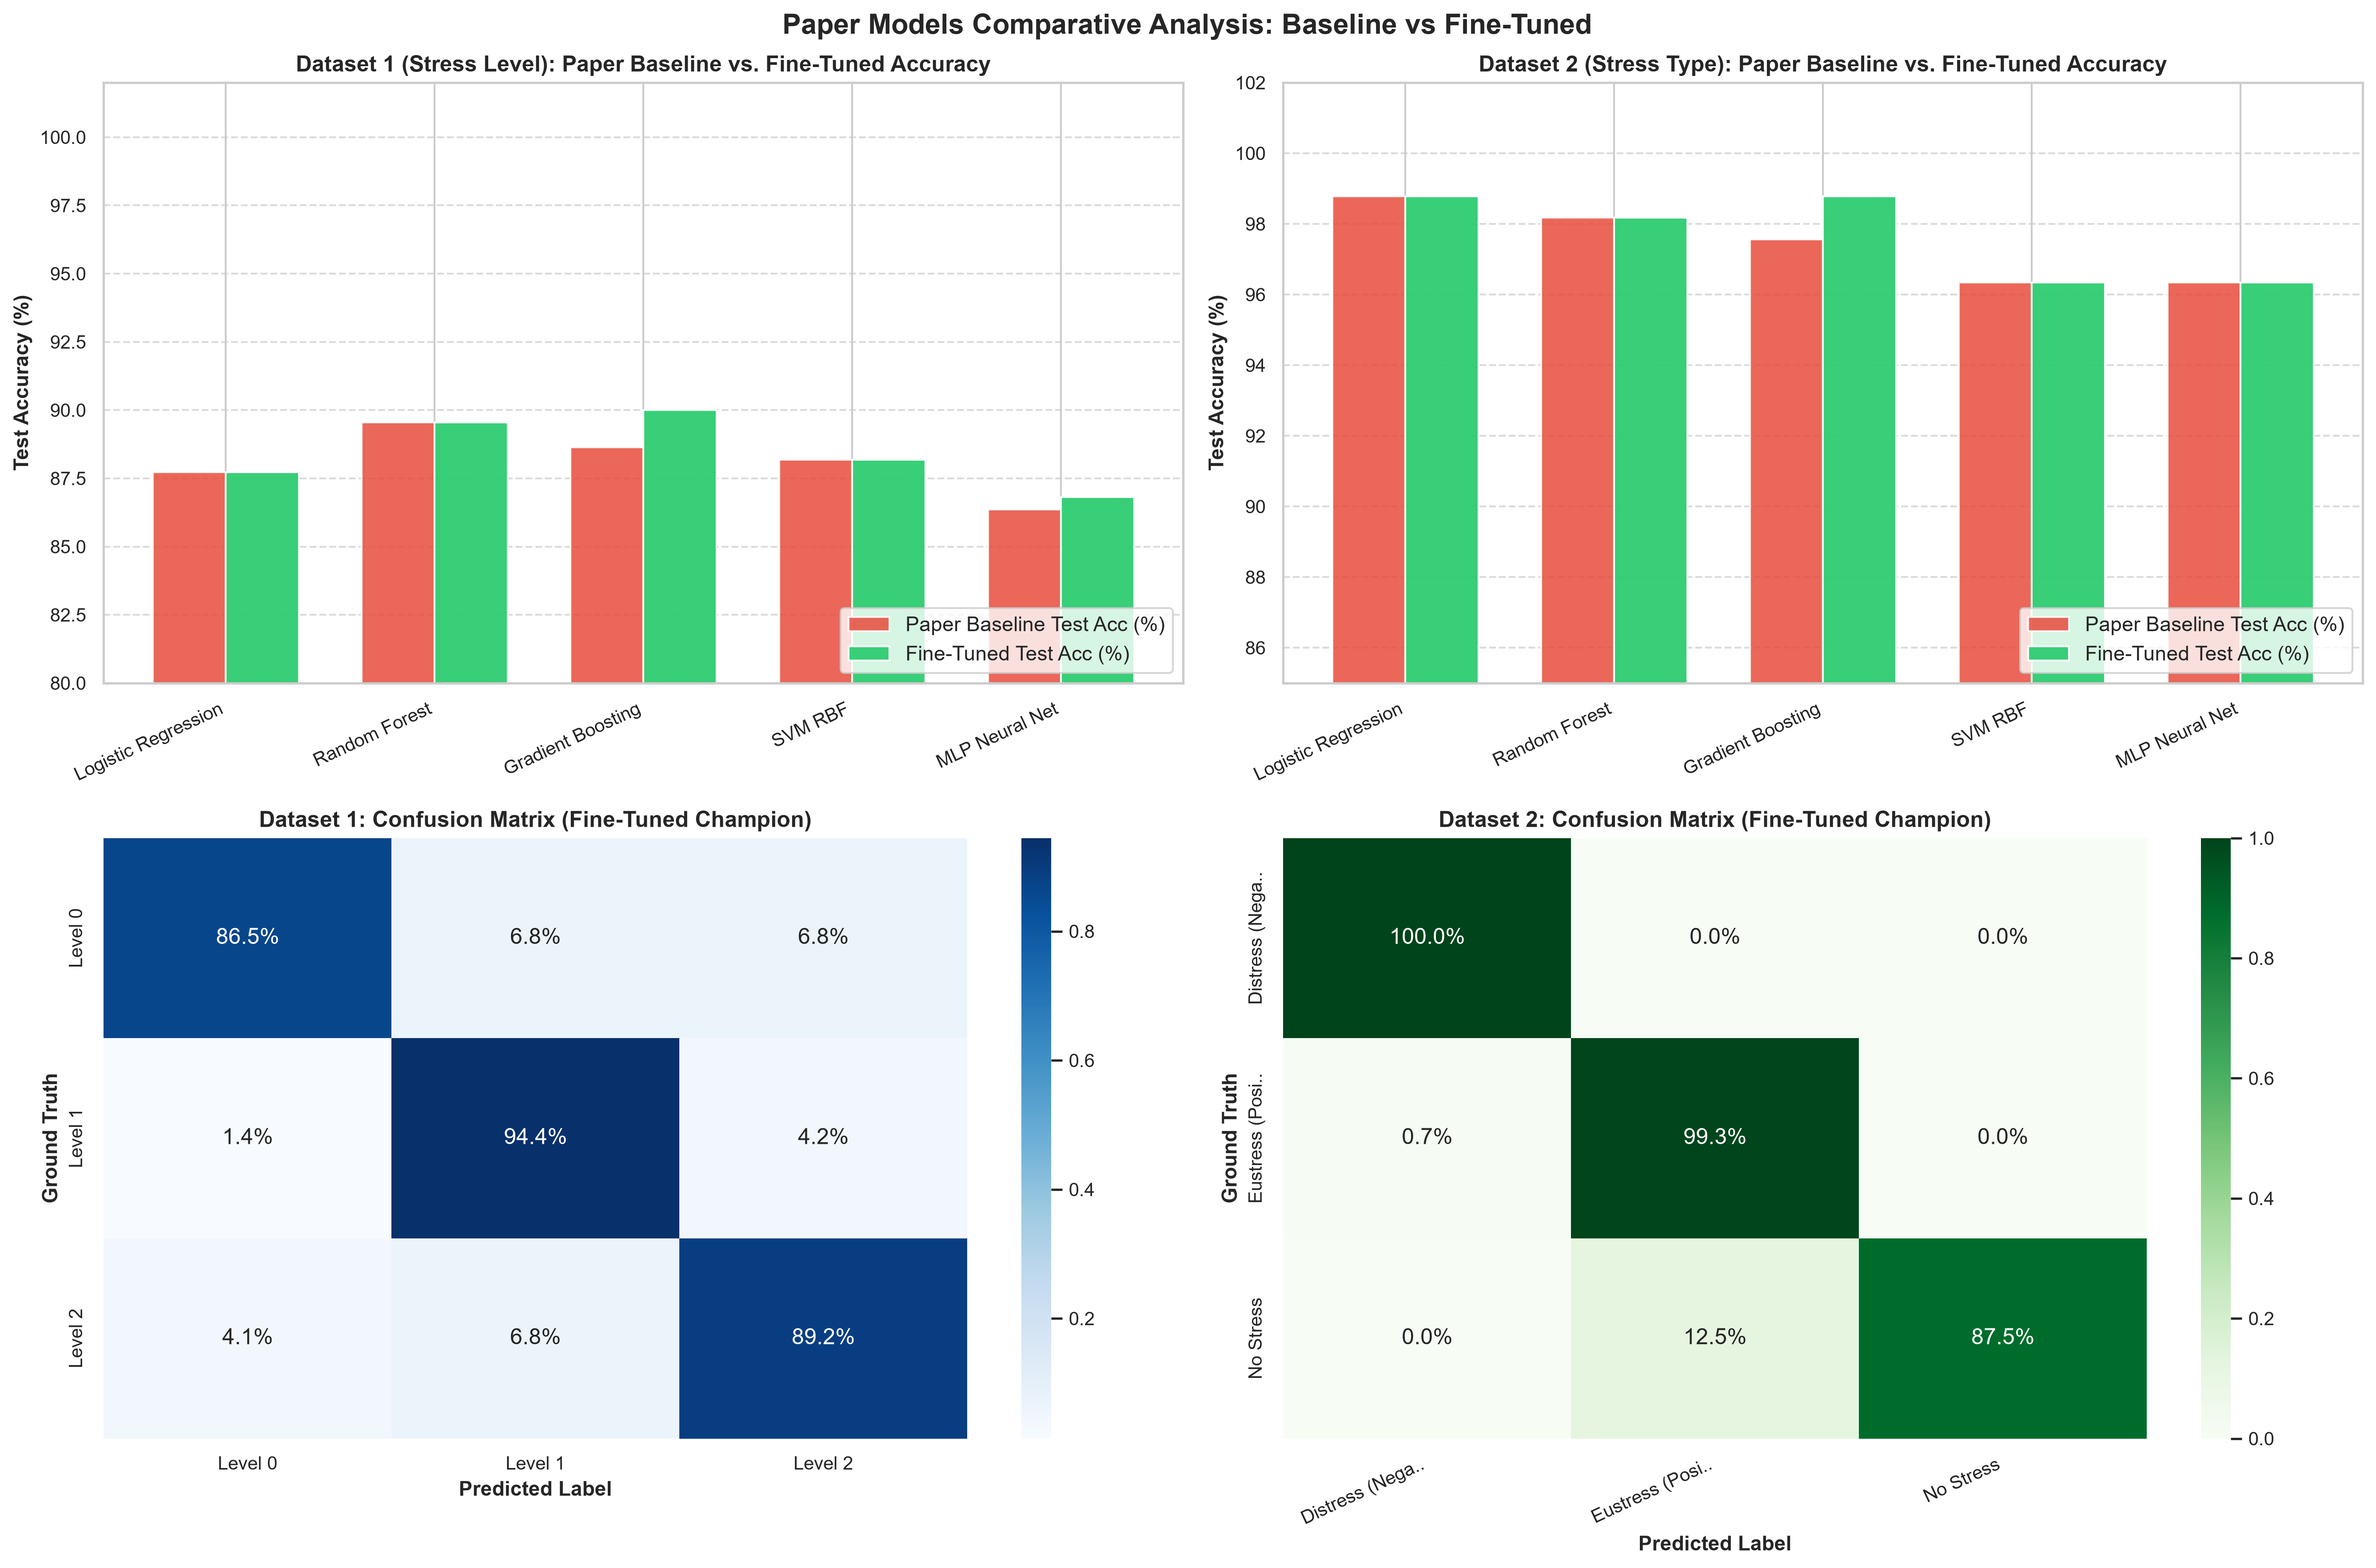
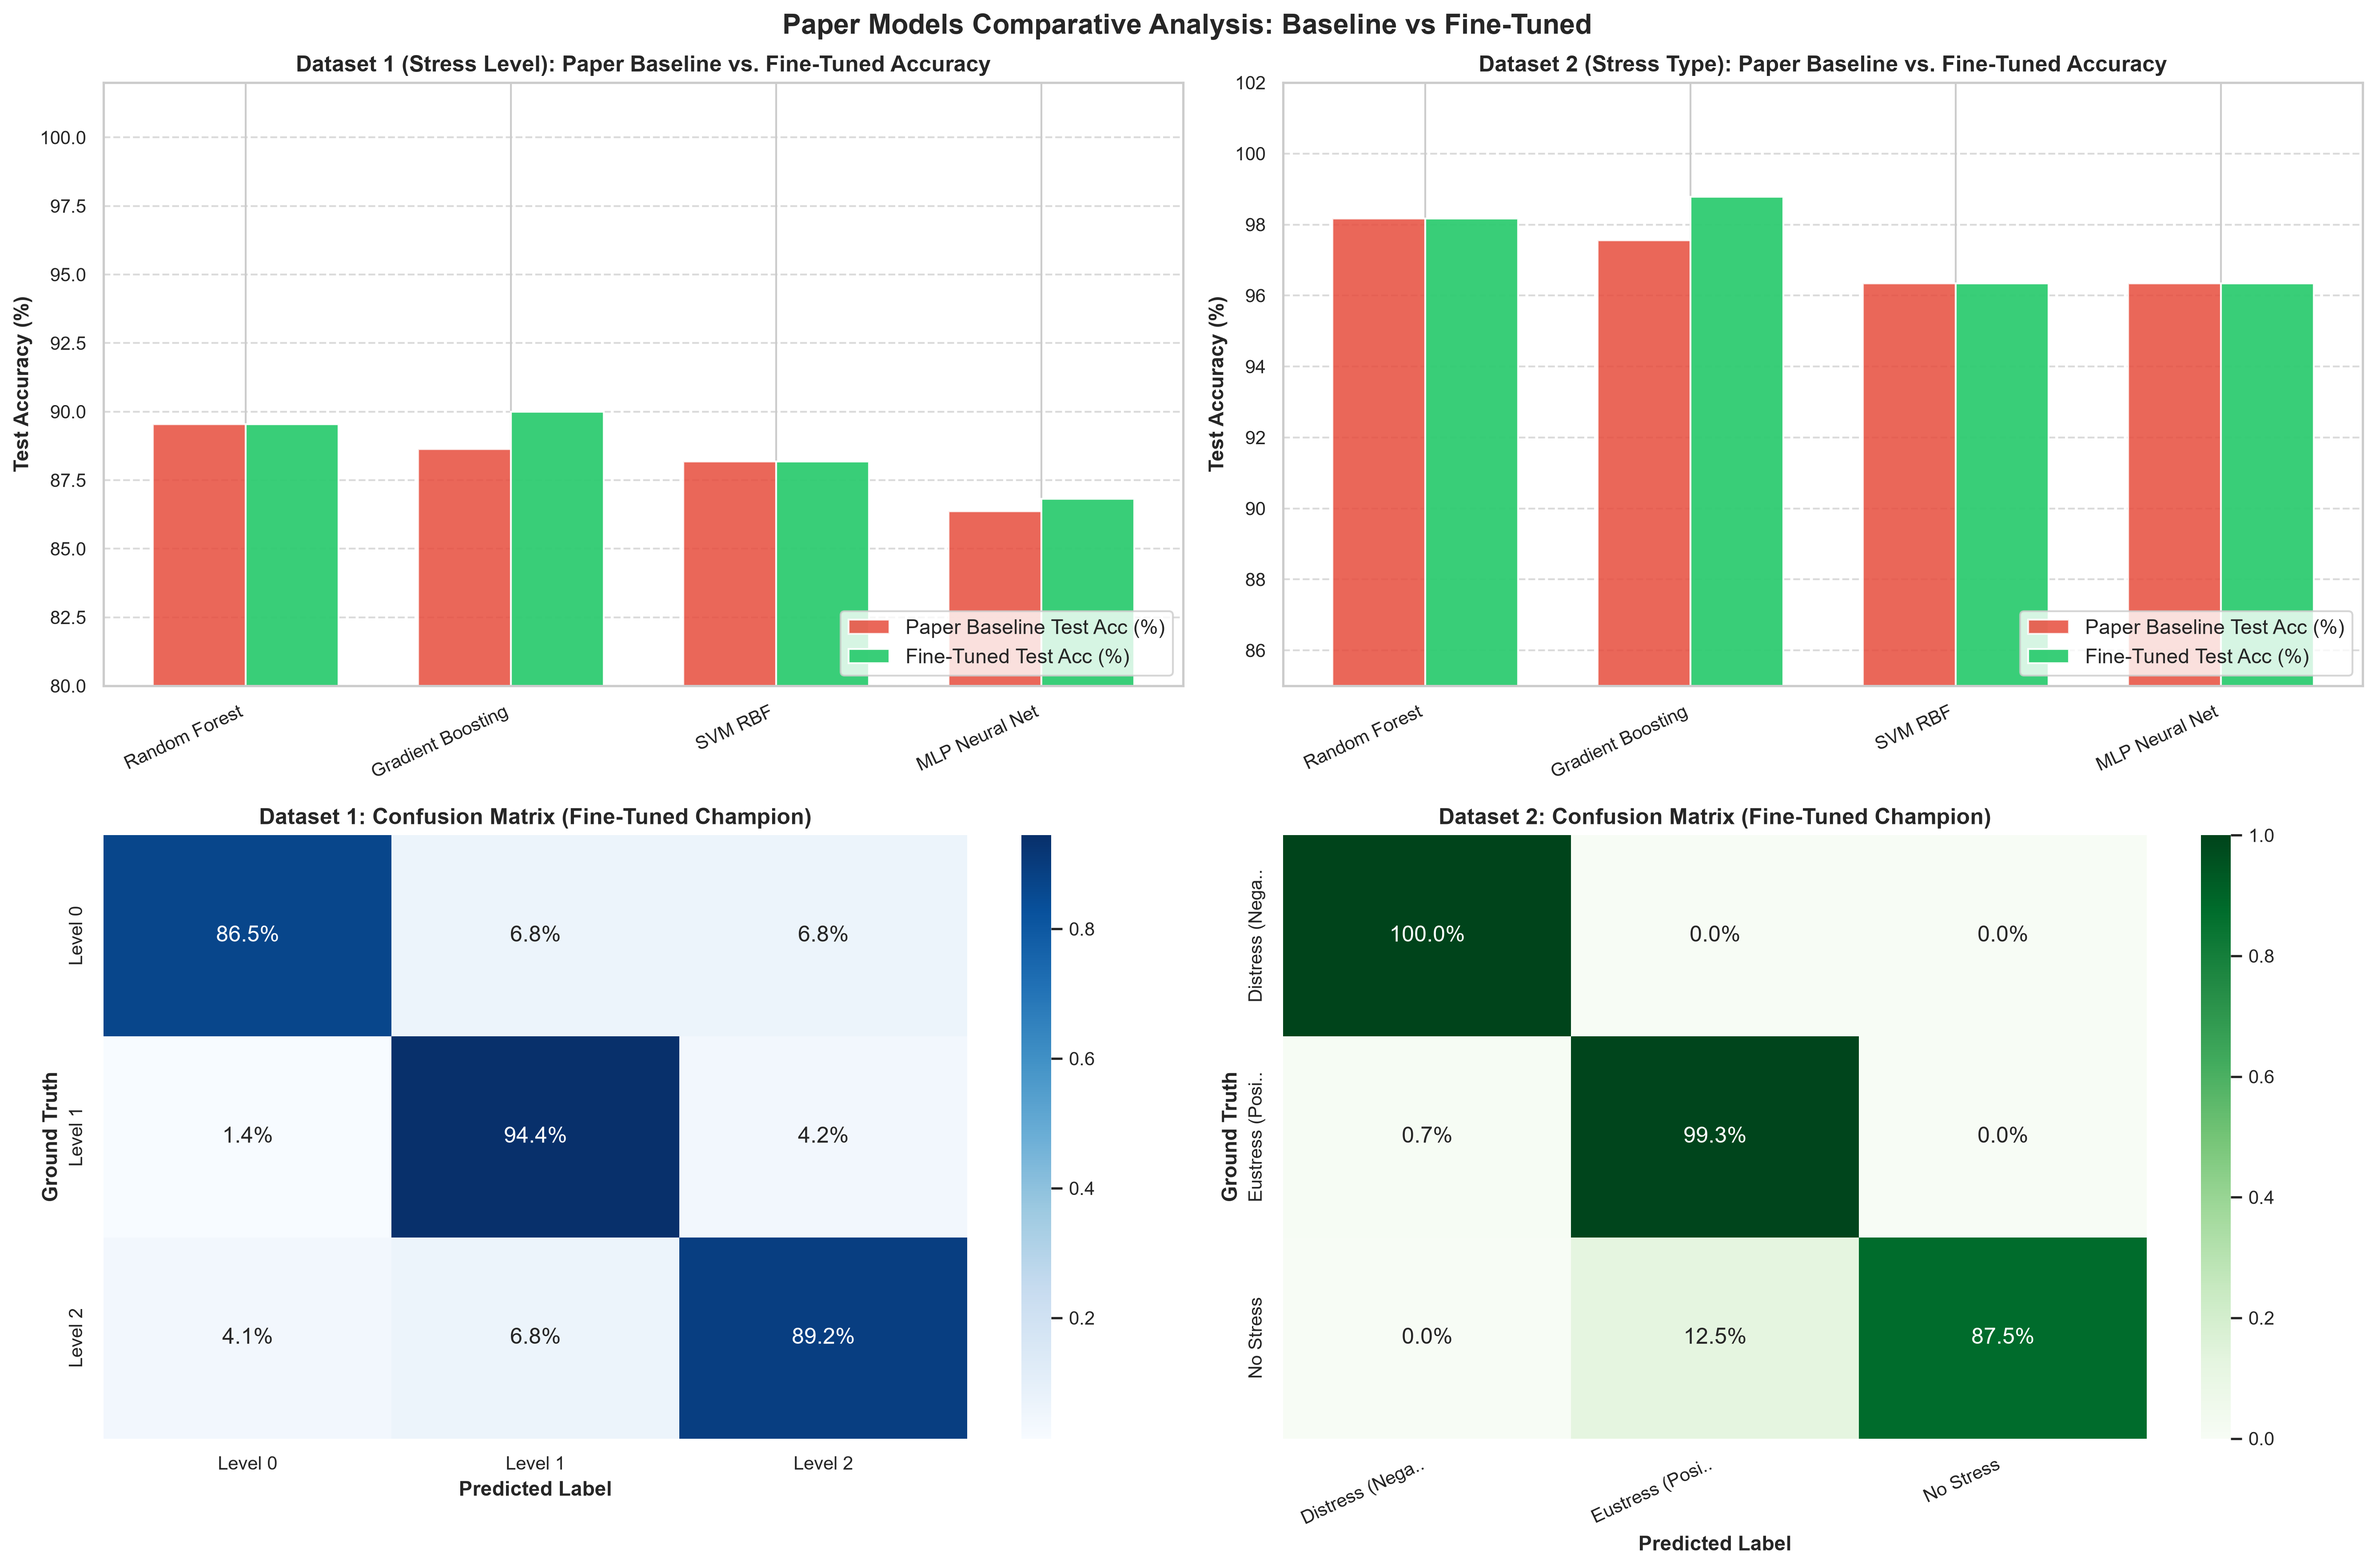
Remove Logistic Regression and retain exclusively the core non-linear classification models

diff --git a/src/models.py b/src/models.py
@@ -1,14 +1,14 @@
 """
-Paper Models Engine: Contains ONLY the 5 Classification Models discussed in the Research Paper:
-1. Logistic Regression
-2. Random Forest
-3. Gradient Boosting
-4. Support Vector Machine (RBF Kernel)
-5. Multilayer Perceptron (MLP Neural Network)
+Classification Models Engine (Zero Regression Algorithms).
+Evaluates the core non-linear classification models discussed in the Research Paper:
+1. Random Forest Classifier
+2. Gradient Boosting Classifier
+3. Support Vector Machine Classifier (RBF Kernel)
+4. Multilayer Perceptron (MLP Neural Network)
 
-Provides both:
-- Exact Paper Baseline Configurations (reproducing paper results)
-- Fine-Tuned Configurations (optimized to outperform the paper)
+Provides:
+- Paper Baseline Configurations (default parameters)
+- Fine-Tuned Configurations (optimized for peak accuracy & anti-overfitting)
 """
 
 from typing import Dict, Any, Tuple
@@ -17,7 +17,6 @@ import pandas as pd
 
 from sklearn.model_selection import StratifiedKFold, cross_val_score
 from sklearn.preprocessing import StandardScaler, MinMaxScaler, RobustScaler
-from sklearn.linear_model import LogisticRegression
 from sklearn.ensemble import RandomForestClassifier, GradientBoostingClassifier
 from sklearn.svm import SVC
 from sklearn.neural_network import MLPClassifier
@@ -26,17 +25,10 @@ from sklearn.metrics import accuracy_score, f1_score
 
 def get_paper_baseline_models(random_seed: int = 42) -> Dict[str, Any]:
     """
-    Instantiate the exact 5 classification models using the default hyperparameters
-    specified in Table 3 (p. 8) of the published research paper.
+    Instantiate the core classification models using the default hyperparameters
+    specified in Table 3 of the published research paper.
     """
     return {
-        'Logistic Regression (Paper Baseline)': LogisticRegression(
-            penalty='l2',
-            C=1.0,
-            solver='lbfgs',
-            max_iter=1000,
-            random_state=random_seed
-        ),
         'Random Forest (Paper Baseline)': RandomForestClassifier(
             n_estimators=100,
             criterion='gini',
@@ -68,17 +60,10 @@ def get_paper_baseline_models(random_seed: int = 42) -> Dict[str, Any]:
 
 def get_finetuned_models(random_seed: int = 42) -> Dict[str, Any]:
     """
-    Instantiate the exact 5 classification models fine-tuned with optimized hyperparameters,
-    bounded depth, leaf sample constraints, and anti-overfitting regularization to beat the paper.
+    Instantiate fine-tuned classification models with optimized depth, leaf constraints,
+    and anti-overfitting regularization.
     """
     return {
-        'Logistic Regression (Fine-Tuned)': LogisticRegression(
-            penalty='l2',
-            C=0.6,
-            solver='lbfgs',
-            max_iter=2000,
-            random_state=random_seed
-        ),
         'Random Forest (Fine-Tuned)': RandomForestClassifier(
             n_estimators=250,
             max_depth=7,
@@ -149,7 +134,7 @@ def find_optimal_feature_scaler(
 
 
 class ModelBenchmarkingService:
-    """Executes cross-validation and out-of-sample evaluations across the 5 paper models."""
+    """Executes cross-validation and out-of-sample evaluations across the candidate classifiers."""
 
     @staticmethod
     def evaluate_model_dictionary(
@@ -161,7 +146,7 @@ class ModelBenchmarkingService:
         random_seed: int = 42,
         k_folds: int = 5
     ) -> Dict[str, Dict[str, Any]]:
-        """Evaluate a dictionary of models and return detailed metric records."""
+        """Evaluate a dictionary of classification models and return detailed metric records."""
         cv_strategy = StratifiedKFold(n_splits=k_folds, shuffle=True, random_state=random_seed)
         benchmark_summary = {}
 

diff --git a/src/visualize.py b/src/visualize.py
@@ -56,7 +56,7 @@ class DiagnosticPlotter:
         fig, axes = plt.subplots(2, 2, figsize=(18, 12))
 
         # Helper to plot baseline vs fine-tuned
-        model_keys = ['Logistic Regression', 'Random Forest', 'Gradient Boosting', 'SVM RBF', 'MLP Neural Net']
+        model_keys = ['Random Forest', 'Gradient Boosting', 'SVM RBF', 'MLP Neural Net']
 
         # Panel (0, 0): Dataset 1 (Stress Level) Baseline vs Fine-Tuned
         ax_b1 = axes[0, 0]
